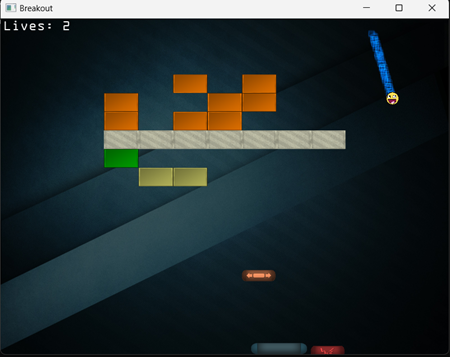
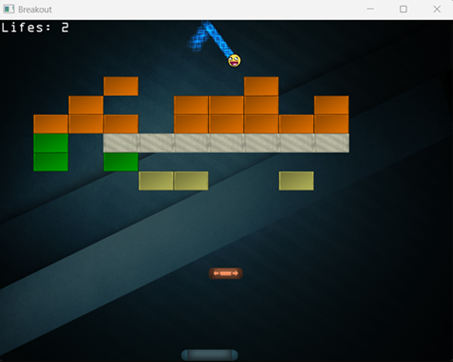
Update code

diff --git a/Breakout/Script/GameController.cpp b/Breakout/Script/GameController.cpp
@@ -1,5 +1,7 @@
 #include "GameController.h"
 
+#include <string>
+
 #include <Learning2DEngine/Render/RenderManager.h>
 #include <Learning2DEngine/System/Random.h>
 
@@ -11,9 +13,9 @@ using namespace irrklang;
 GameController::GameController(GameObject* gameObject, const FontSizePair& fontSizePair, PostProcessData* postProcessData)
 	: UpdaterComponent(gameObject), BaseUpdaterComponent(gameObject), Component(gameObject),
     fontSizePair(fontSizePair), postProcessData(postProcessData), soundEngine(nullptr),
-    state(GameState::GAME_MENU), powerUps(), levels(), selectedLevel(0), lives(3),
+    state(GameState::GAME_MENU), powerUps(), levels(), selectedLevel(0), lifes(3),
     backgroundController(nullptr), playerController(nullptr), ballController(nullptr),
-    shakeTime(0.0f), liveText(nullptr), startText(nullptr), levelSelectorText(nullptr), winText(nullptr), retryText(nullptr),
+    shakeTime(0.0f), lifeText(nullptr), startText(nullptr), levelSelectorText(nullptr), winText(nullptr), retryText(nullptr),
     powerUpActivationEventItem(this), ballHitPlayerEventItem(this), ballHitBrickEventItem(this)
 {
 
@@ -72,10 +74,10 @@ void GameController::Init()
             glm::vec2(5.0f, 5.0f)
         )
     );
-    liveText = liveGameObject->AddComponent<Text2DLateRenderer, const Resolution&, const FontSizePair&, std::string>(
+    lifeText = liveGameObject->AddComponent<Text2DLateRenderer, const Resolution&, const FontSizePair&, std::string>(
         resolution,
         fontSizePair,
-        "Lives: " + std::to_string(lives)
+        "Lifes: " + std::to_string(lifes)
     );
 
     auto startGameObject = new GameObject(
@@ -142,7 +144,7 @@ void GameController::Destroy()
     GameObject::Destroy(playerController);
     GameObject::Destroy(ballController);
 
-    GameObject::Destroy(liveText);
+    GameObject::Destroy(lifeText);
     GameObject::Destroy(startText);
     GameObject::Destroy(levelSelectorText);
     GameObject::Destroy(winText);
@@ -157,16 +159,16 @@ void GameController::Destroy()
 void GameController::Update()
 {
     //Update
-    ProcessInput(); //ScreenController/UIController + GameController combo?
-    UpdatePowerUps(); //PowerController Update/LateUpdate + event?
-    ShakeScreen();  //ScreenController/UIController?
-    postProcessData->RefreshShader(glfwGetTime()); //ScreenController/UIController?
+    ProcessInput();
+    UpdatePowerUps();
+    ShakeScreen(); 
 
     //DoCollisions();
 
     //LateUpdate
-    IsLiveLost(); //Eventbe?
-    IsLevelCompleted(); //BallHitBrick is not good, because it is called by collision
+    postProcessData->RefreshShader(glfwGetTime());
+    IsLifeLost();
+    IsLevelCompleted(); 
 }
 
 void GameController::ProcessInput()
@@ -257,12 +259,12 @@ void GameController::ShakeScreen()
     }
 }
 
-void GameController::IsLiveLost()
+void GameController::IsLifeLost()
 {
     if (ballController->gameObject->transform.position.y >= Game::mainCamera.GetResolution().GetHeight())
     {
-        --lives;
-        if (lives == 0)
+        --lifes;
+        if (lifes == 0)
         {
             ResetLevel();
             state = GameState::GAME_MENU;
@@ -273,7 +275,7 @@ void GameController::IsLiveLost()
         }
         else
         {
-            liveText->text = "Lives: " + std::to_string(lives);
+            lifeText->text = "Lifes: " + std::to_string(lifes);
         }
         ResetPlayer();
         ClearPowerUps();
@@ -299,8 +301,8 @@ void GameController::IsLevelCompleted()
 void GameController::ResetLevel()
 {
     levels[selectedLevel].Load(true);
-    lives = 3;
-    liveText->text = "Lives: " + std::to_string(lives);
+    lifes = 3;
+    lifeText->text = "Lifes: " + std::to_string(lifes);
 }
 
 void GameController::ResetPlayer()

diff --git a/Breakout/Script/GameController.h b/Breakout/Script/GameController.h
@@ -15,11 +15,11 @@
 #include "PostProcessData.h"
 #include "PowerUpController.h"
 #include "PowerUpType.h"
-#include "PowerUpActivation.h"
+#include "IPowerUpActivation.h"
 #include "PowerUpActivationEventItem.h"
-#include "BallHitPlayerAction.h"
+#include "IBallHitPlayerAction.h"
 #include "BallHitPlayerEventItem.h"
-#include "BallHitBrickAction.h"
+#include "IBallHitBrickAction.h"
 #include "BallHitBrickEventItem.h"
 
 
@@ -30,9 +30,9 @@ enum GameState {
 };
 
 class GameController final : public virtual Learning2DEngine::System::UpdaterComponent,
-                            public virtual PowerUpActivation,
-                            public virtual BallHitPlayerAction,
-                            public virtual BallHitBrickAction
+                            public IPowerUpActivation,
+                            public IBallHitPlayerAction,
+                            public IBallHitBrickAction
 {
     friend class Learning2DEngine::System::GameObject;
 private:
@@ -44,7 +44,7 @@ private:
     std::vector<PowerUpController*> powerUps;
     std::vector<GameLevel> levels;
     unsigned int selectedLevel;
-    unsigned int lives;
+    unsigned int lifes;
     BackgroundController* backgroundController;
     PlayerController* playerController;
     BallController* ballController;
@@ -53,7 +53,7 @@ private:
     BallHitPlayerEventItem ballHitPlayerEventItem;
     BallHitBrickEventItem ballHitBrickEventItem;
 
-    Learning2DEngine::UI::Text2DLateRenderer* liveText;
+    Learning2DEngine::UI::Text2DLateRenderer* lifeText;
     Learning2DEngine::UI::Text2DLateRenderer* startText;
     Learning2DEngine::UI::Text2DLateRenderer* levelSelectorText;
     Learning2DEngine::UI::Text2DLateRenderer* winText;
@@ -65,7 +65,7 @@ private:
 
     void ProcessInput();
     void ShakeScreen();
-    void IsLiveLost();
+    void IsLifeLost();
     void IsLevelCompleted();
 
     void ResetLevel();

diff --git a/Breakout/Script/PowerUpActivationEventItem.h b/Breakout/Script/PowerUpActivationEventItem.h
@@ -2,14 +2,14 @@
 
 #include <Learning2DEngine/EventSystem/EventItem.h>
 
-#include "PowerUpActivation.h"
+#include "IPowerUpActivation.h"
 
 class PowerUpActivationEventItem final : public virtual Learning2DEngine::EventSystem::EventItem<PowerUpType>
 {
 private:
-	PowerUpActivation* powerUpActivation;
+	IPowerUpActivation* powerUpActivation;
 public:
-	PowerUpActivationEventItem(PowerUpActivation* powerUpActivation)
+	PowerUpActivationEventItem(IPowerUpActivation* powerUpActivation)
 		: powerUpActivation(powerUpActivation)
 	{
 

diff --git a/Breakout/Script/BackgroundController.h b/Breakout/Script/BackgroundController.h
@@ -9,7 +9,7 @@
 #include <Learning2DEngine/Render/Resolution.h>
 #include <Learning2DEngine/EventSystem/ResolutionEventItem.h>
 
-class BackgroundController : public virtual Learning2DEngine::System::Component, public virtual Learning2DEngine::Render::IResolutionRefresher
+class BackgroundController : public virtual Learning2DEngine::System::Component, public Learning2DEngine::Render::IResolutionRefresher
 {
     friend class Learning2DEngine::System::GameObject;
 protected:

diff --git a/Breakout/Script/BallHitBrickEventItem.h b/Breakout/Script/BallHitBrickEventItem.h
@@ -2,14 +2,14 @@
 
 #include <Learning2DEngine/EventSystem/EventItem.h>
 
-#include "BallHitBrickAction.h"
+#include "IBallHitBrickAction.h"
 
 class BallHitBrickEventItem final : public virtual Learning2DEngine::EventSystem::EventItem<BrickController*>
 {
 private:
-	BallHitBrickAction* item;
+	IBallHitBrickAction* item;
 public:
-	BallHitBrickEventItem(BallHitBrickAction* item)
+	BallHitBrickEventItem(IBallHitBrickAction* item)
 		: item(item)
 	{
 

diff --git a/Breakout/Script/BallHitPlayerEventItem.h b/Breakout/Script/BallHitPlayerEventItem.h
@@ -2,14 +2,14 @@
 
 #include <Learning2DEngine/EventSystem/EventItem.h>
 
-#include "BallHitPlayerAction.h"
+#include "IBallHitPlayerAction.h"
 
 class BallHitPlayerEventItem final : public virtual Learning2DEngine::EventSystem::EventItem<>
 {
 private:
-	BallHitPlayerAction* item;
+	IBallHitPlayerAction* item;
 public:
-	BallHitPlayerEventItem(BallHitPlayerAction* item)
+	BallHitPlayerEventItem(IBallHitPlayerAction* item)
 		: item(item)
 	{
 

diff --git a/Learning2DEngine/Learning2DEngine/System/Game.h b/Learning2DEngine/Learning2DEngine/System/Game.h
@@ -33,7 +33,7 @@ namespace Learning2DEngine
             LateRender (without any effect)
             Update Window
         */
-        class Game : public virtual IKeyboardMouseRefresher, public virtual Render::IResolutionRefresher
+        class Game : public virtual IKeyboardMouseRefresher, public Render::IResolutionRefresher
         {
         private:
             float lastFrame;

diff --git a/Breakout/Script/IBallHitBrickAction.h b/Breakout/Script/IBallHitBrickAction.h
@@ -2,10 +2,10 @@
 
 #include "BrickController.h"
 
-class BallHitBrickAction
+class IBallHitBrickAction
 {
 public:
-	virtual ~BallHitBrickAction() {}
+	virtual ~IBallHitBrickAction() {}
 
 	virtual void BallHitBrick(BrickController* brick) = 0;
 };

diff --git a/Breakout/Script/IPowerUpActivation.h b/Breakout/Script/IPowerUpActivation.h
@@ -2,10 +2,10 @@
 
 #include "PowerUpType.h"
 
-class PowerUpActivation
+class IPowerUpActivation
 {
 public:
-	virtual ~PowerUpActivation() {}
+	virtual ~IPowerUpActivation() {}
 
 	virtual void ActivatePowerUp(PowerUpType powerUp) = 0;
 };

diff --git a/Breakout/Script/IBallHitPlayerAction.h b/Breakout/Script/IBallHitPlayerAction.h
@@ -1,0 +1,9 @@
+#pragma once
+
+class IBallHitPlayerAction
+{
+public:
+	virtual ~IBallHitPlayerAction() {}
+
+	virtual void BallHitPlayer() = 0;
+};
